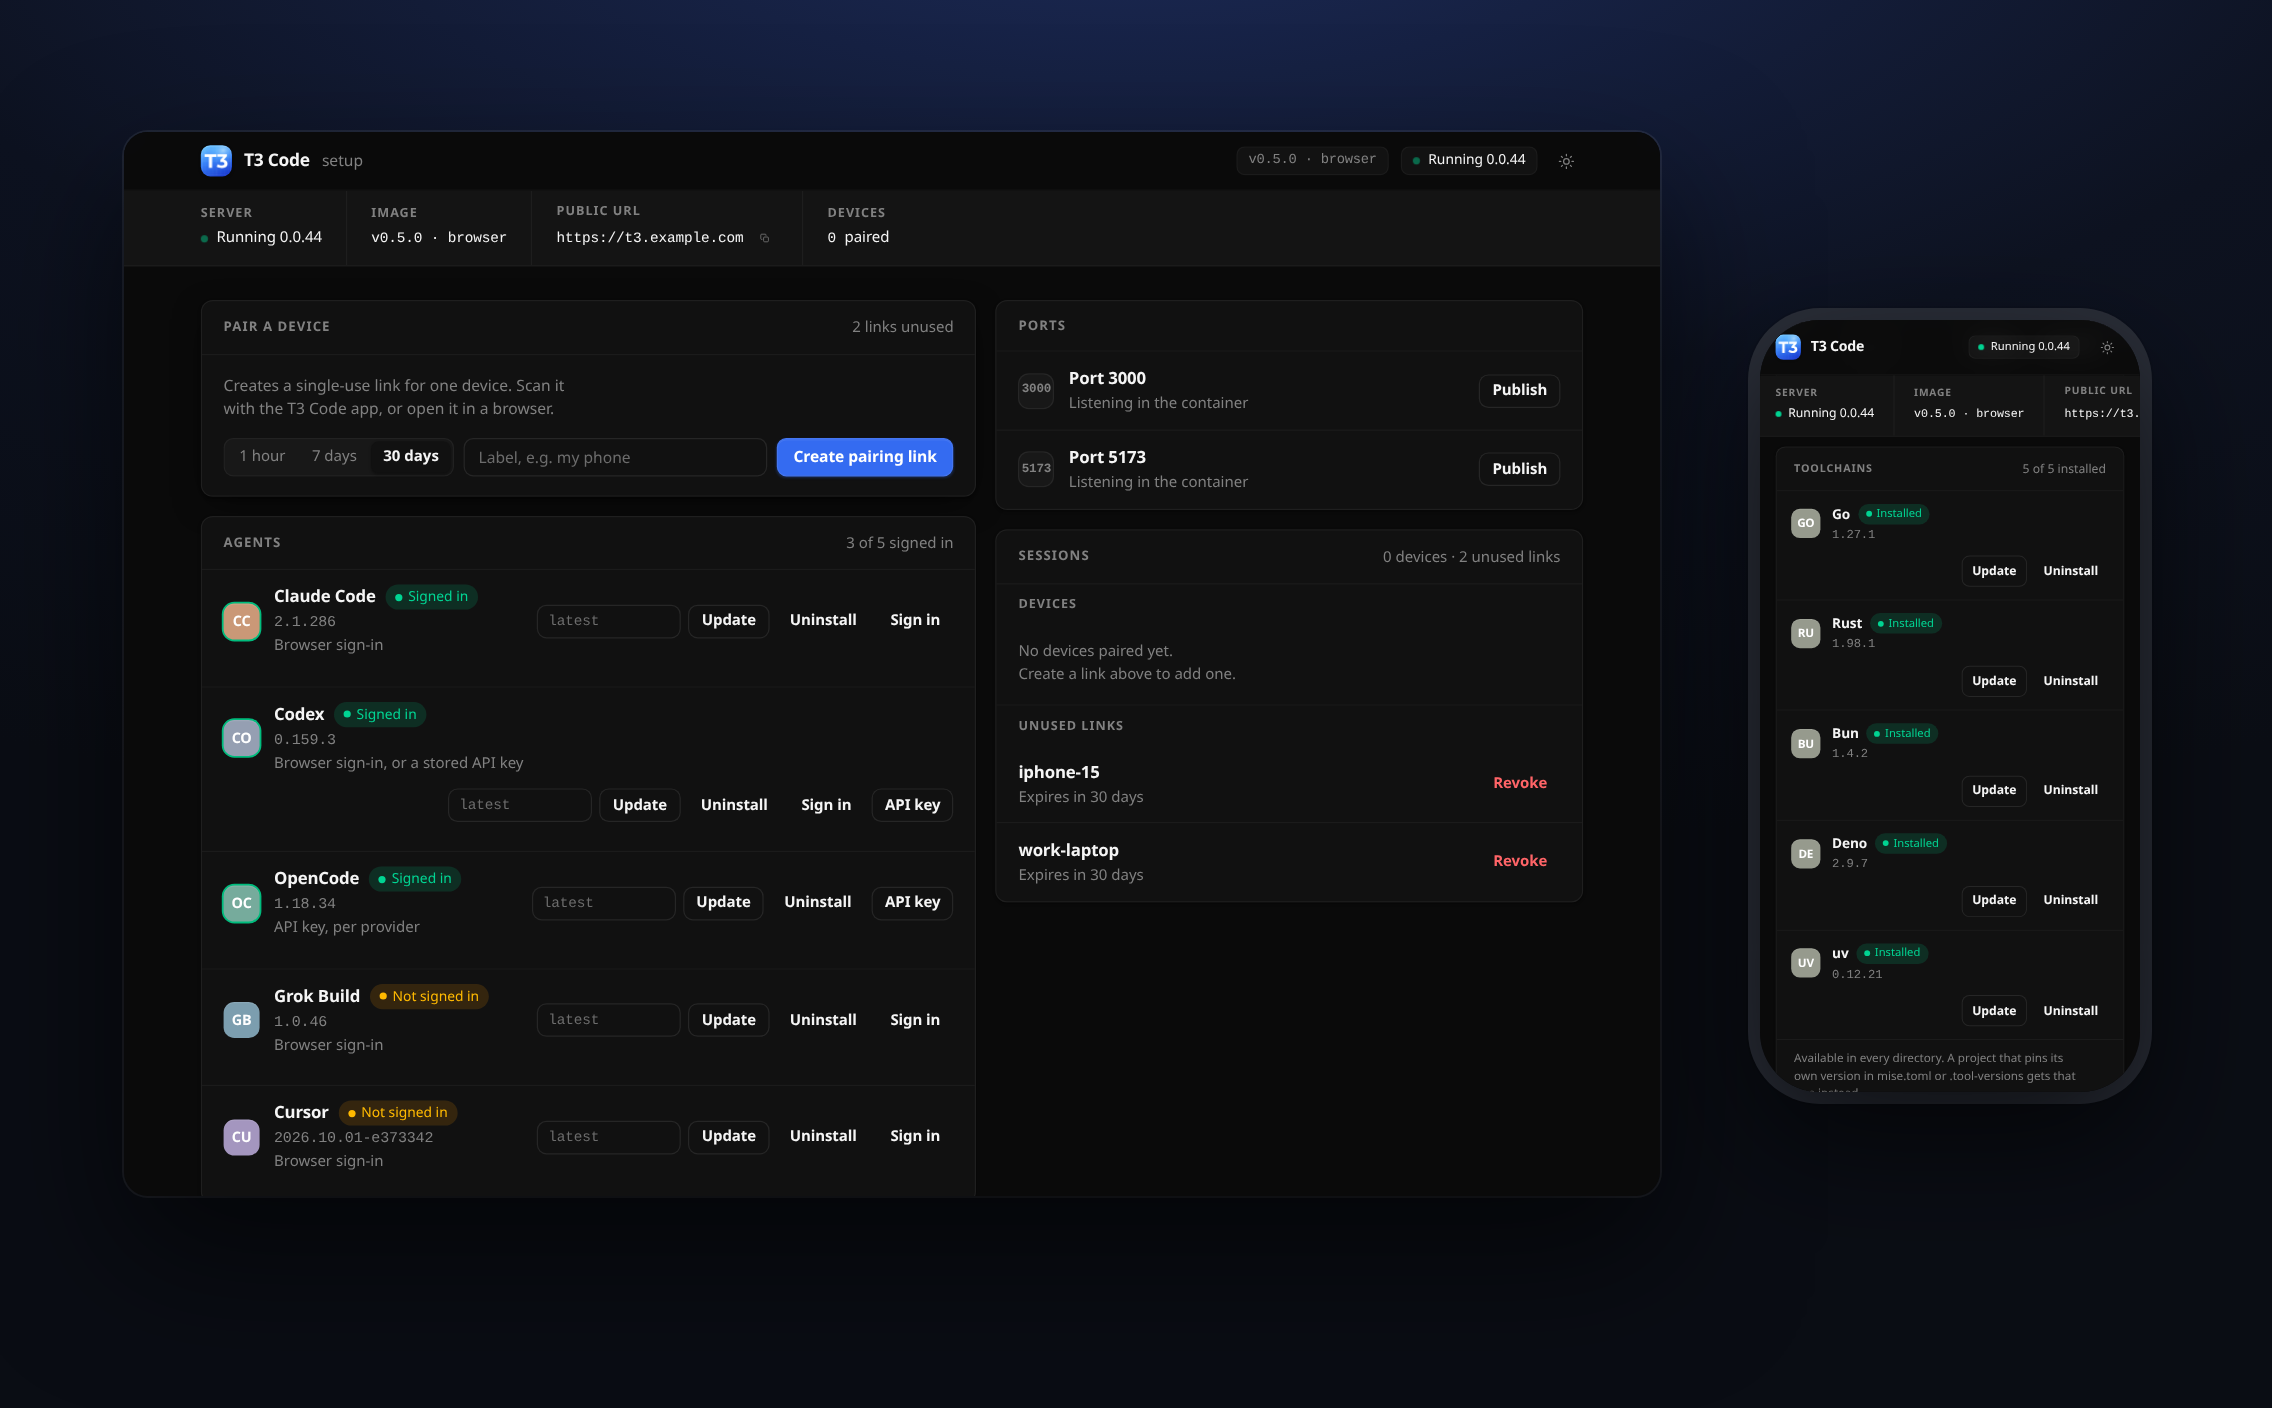
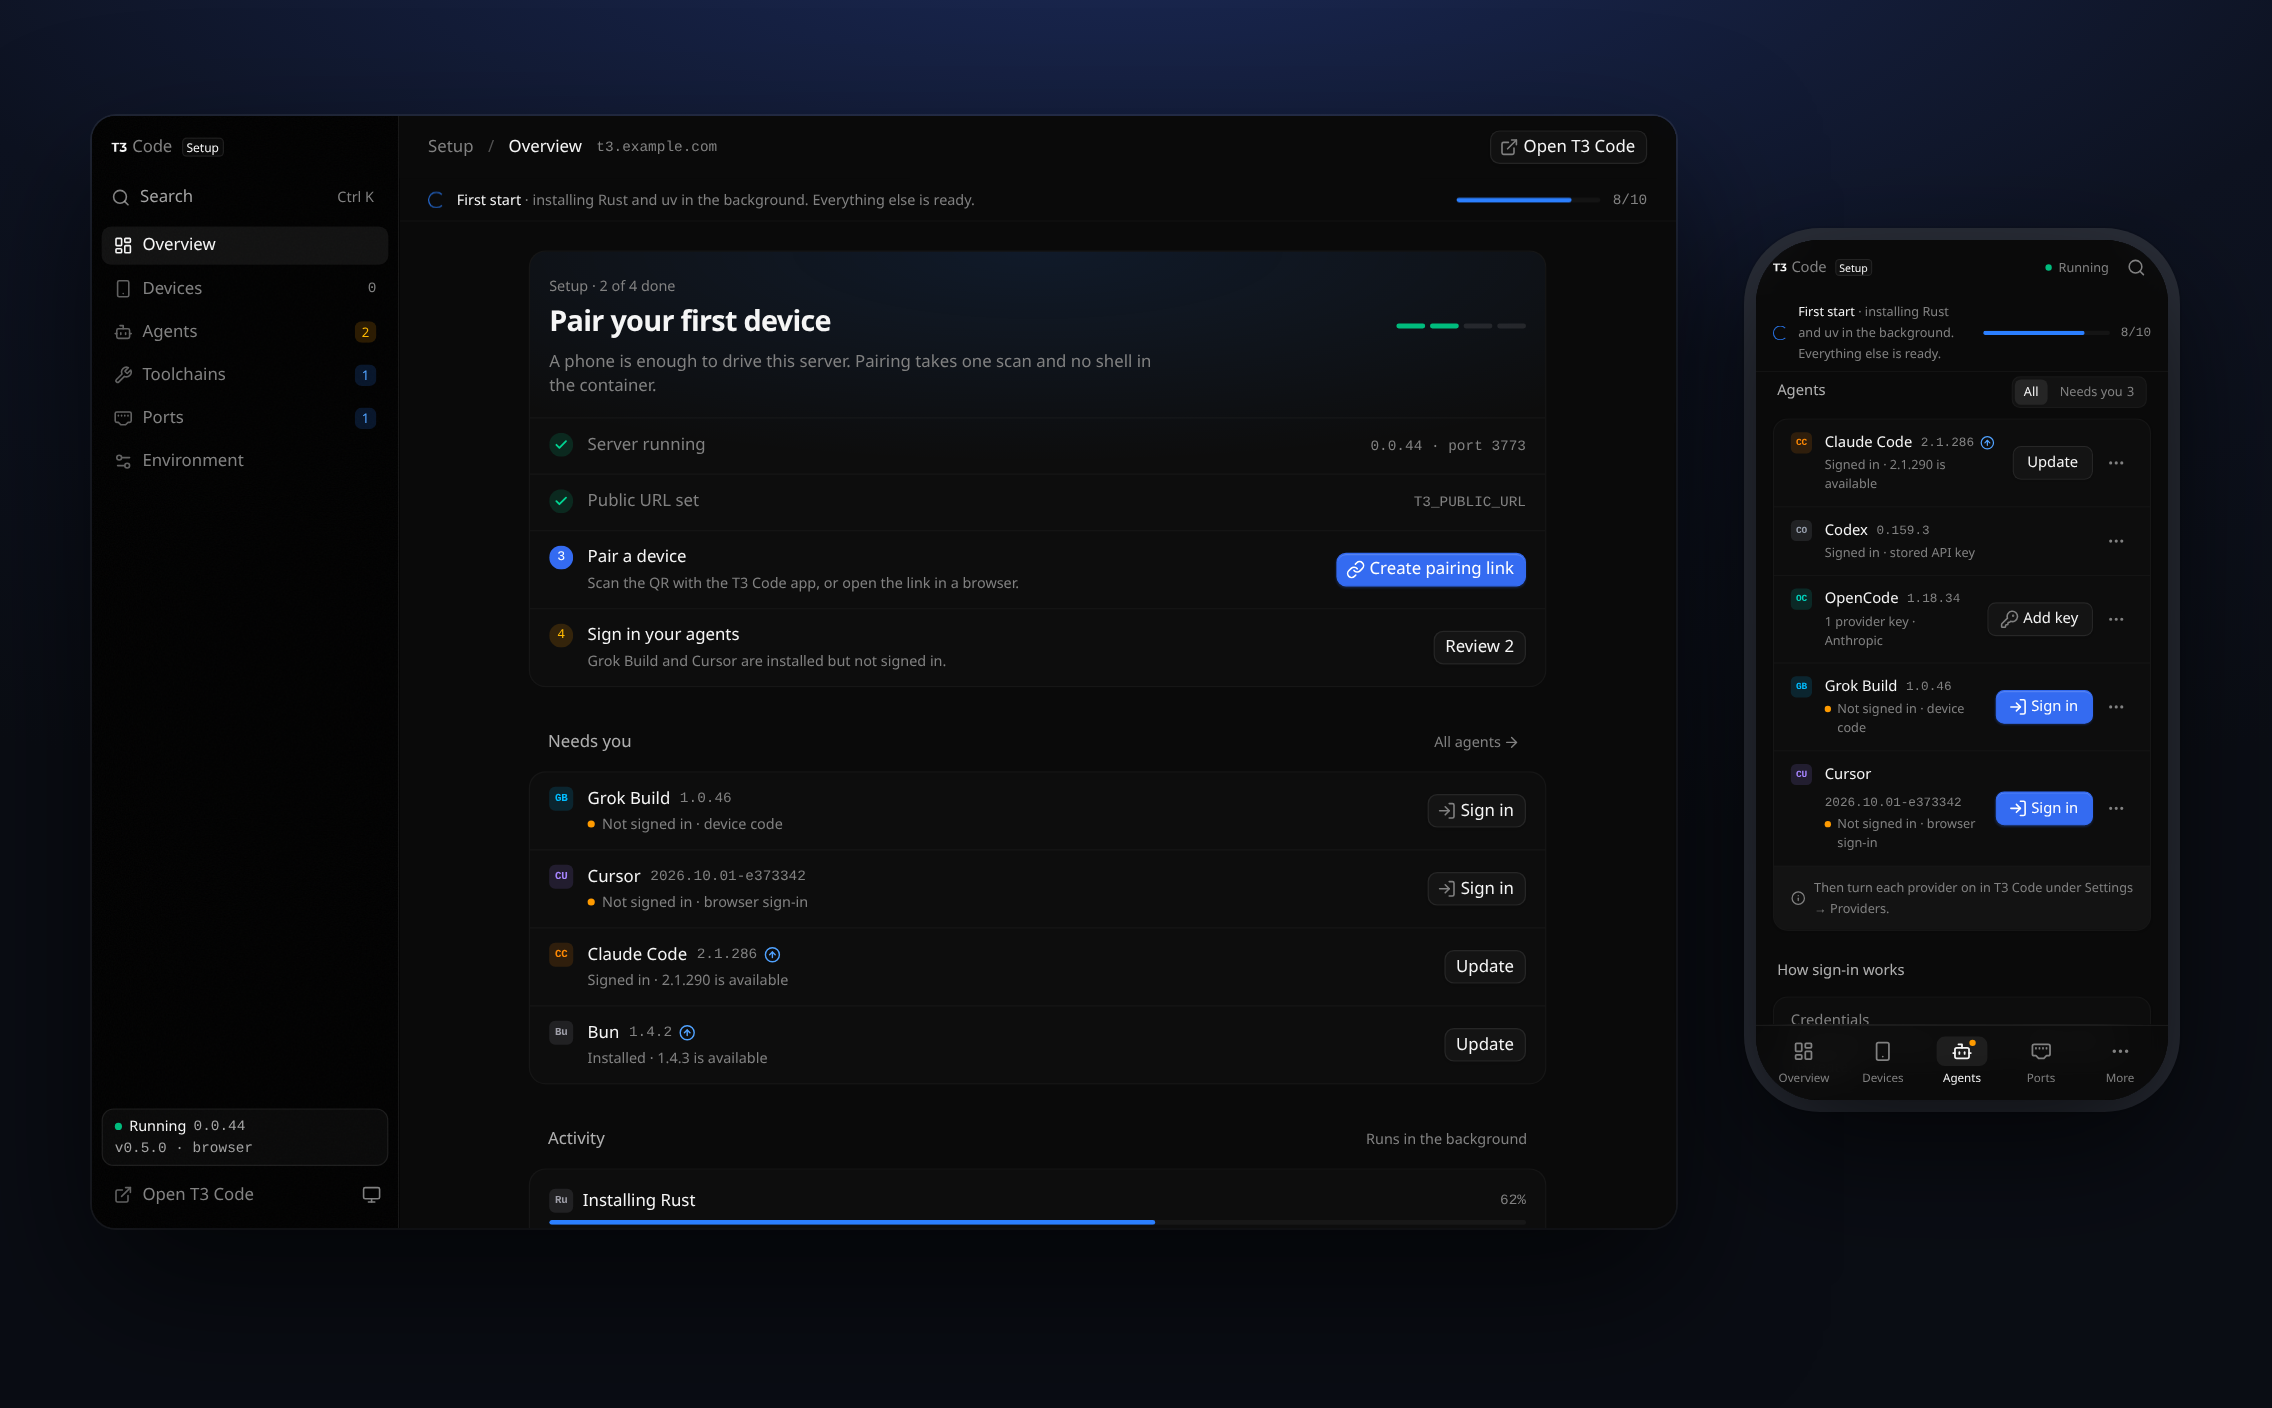
Reshoot the README on the redesigned console

diff --git a/README.md b/README.md
@@ -99,7 +99,7 @@ enter your `T3_SETUP_KEY`, and press **Create pairing link**. Scan the QR with
 the T3 Code app, or open the link in a browser.
 
 From there you are inside T3 Code. Sign each agent in from the setup page's
-**Agents** card, through its own browser flow, then enable the provider under
+**Agents** page, through its own browser flow, then enable the provider under
 **Settings → Providers**.
 
 That is the whole path — no shell in the container at any point. `docker exec`
@@ -151,28 +151,40 @@ T3_PUBLIC_URL=https://t3.example.com
 
 Leave `T3_SETUP_KEY` empty and one is generated at boot and printed to the log;
 setting it yourself keeps it stable when the container is recreated. Then open
-port 3774, enter the key, and press **Create pairing link** — you get a URL and
-a QR code built against your public address, valid for as long as you choose.
-The same panel shows the **pair code** on its own, for clients like the desktop
-app that ask for a server URL and a code as separate fields. The page also
-shows whether the server is healthy, whether `T3_PUBLIC_URL` is set, and which
-agents are signed in.
+port 3774 and enter the key.
 
-Beyond pairing it is a small management surface: connected clients with a
-**Revoke** button each, outstanding unredeemed links with the same, the
-environment status, an **Agents** card that signs your coding agents in (and
-installs, updates or removes them), and a **Toolchains** card that does the same
-for Go, Rust, Bun, Deno and uv. While the first start is still installing, a
-banner at the top says what it is on.
+The console opens on **Overview**, which lists what stands between this
+container and a working phone — the server running, `T3_PUBLIC_URL` set, a
+device paired, the agents signed in — with the next step's button in the list.
+Once all four are done it folds into a single **Ready** line and shows recent
+activity instead. On a desktop the pages are in a sidebar (Overview, Devices,
+Agents, Toolchains, Ports, Environment); on a phone they are a tab bar, and
+every flow fits a 390px screen.
 
-The top bar shows which image is running — `v0.5.0 · browser` — alongside the
-server's health, so a pull can be confirmed from the page instead of guessed at.
-It reads a build stamp baked in at image build time: the release tag in CI, and
-`dev` for a local build.
+On **Devices**, press **Create pairing link** — you get a URL and a QR code
+built against your public address, valid for as long as you choose, and the
+**pair code** on its own for clients like the desktop app that ask for a
+server URL and a code as separate fields. The link is tracked: once the device
+it was made for appears, the page says **Paired with …** with an **Open T3
+Code** button, and says so if the link expires or is revoked first. Paired
+devices and unused links are listed below it, each with **Revoke**.
 
-Creating a link tracks it: once the device it was made for appears, the panel
-flips to **Paired** with an **Open T3 Code** button, and says so if the link
-expires or is revoked before anyone uses it.
+Every row shows one action for its state — **Install**, **Sign in**,
+**Update**, **Retry** — and keeps the rest in its **⋯** menu (a bottom sheet on a
+phone). Uninstalling, revoking and publishing a database port ask first. **⌘K**
+(Ctrl K) opens a palette that reaches every action and page, `G` then a letter
+goes to a page, and `P` on Devices makes a link.
+
+The sidebar's server card shows which image is running — `v0.5.0 · browser` —
+alongside the server's health, so a pull can be confirmed from the page instead
+of guessed at. It reads a build stamp baked in at image build time: the release
+tag in CI, and `dev` for a local build. **Environment** has the rest: the
+public URL, where state and work live and whether those mounts survive a
+recreate, the agent browser, **Copy diagnostics** (the status with anything
+identifying taken out, for an issue), and **Lock** to sign this browser out.
+
+The page is a single self-contained document: no fonts, scripts or styles are
+fetched from anywhere, which matters over a tunnel from a phone.
 
 When the console is reachable at `/__setup` on the same hostname — the routing
 in [Exposing it through one hostname](#exposing-it-through-one-hostname) — T3
@@ -184,13 +196,16 @@ controls live, and renders nothing when the console is not routed there.
 ### Signing agents in, and keeping them current, from the page
 
 The agents are not baked into the image; the first start installs them onto
-the volume. Each row of the **Agents** card shows the exact version installed
-and points T3 Code at that executable, and **Update** and **Uninstall** are
-buttons on the same row: Update moves to the newest release (or one you type),
-and a download carries on in the background with the row showing progress, so
-a slow connection or a tunnel's request timeout does not matter. If an update
-fails, the previous version stays installed and working. Nothing installs or
-updates just because a poll ran. From a shell:
+the volume. Each row on the **Agents** page shows the exact version installed
+and points T3 Code at that executable. When a newer release exists the version
+gets an arrow and the row an **Update** button; **Install a specific
+version…** and **Uninstall…** are in its menu. A download carries on in the
+background with the row showing its progress and a **Cancel** button, so a slow
+connection or a tunnel's request timeout does not matter. Operations run one
+at a time: press Update on three rows, or **Update all**, and they queue. If an
+update fails, the previous version stays installed and working. Nothing
+installs or updates just because a poll ran; the newest releases are looked up
+in the background every few hours. From a shell:
 
 ```bash
 docker compose exec t3code t3-harness list
@@ -216,13 +231,15 @@ by running the CLIs rather than reading about them:
 | Cursor | browser flow, polls to completion | — |
 | Grok Build | device code — URL plus a code to confirm | — |
 
-**Sign in** shows the URL as a link and a QR code, so you can approve it on the
-phone in your hand; where the CLI wants the code pasted back, a field appears
-for it. Nothing is typed into a terminal, and the page never becomes one — it
-runs the CLI and reads what it prints.
+**Sign in** opens a sheet that follows the CLI's own flow as numbered steps:
+open the page (or scan its QR on the phone in your hand), enter the device code
+shown large, or paste the code the browser gives back. It closes by itself once
+the agent reports a session; **Esc** cancels and stops the CLI. Nothing is
+typed into a terminal, and the page never becomes one — it runs the CLI and
+reads what it prints.
 
 <p align="center">
-  <img src="docs/media/agent-signin.png" alt="Signing Claude Code in from the setup page" width="100%">
+  <img src="docs/media/agent-signin.png" alt="Signing Grok Build in with a device code, from the setup page" width="100%">
 </p>
 
 The signed-in badge asks each CLI rather than looking for a credentials file, so
@@ -381,13 +398,14 @@ laptop. Docker's own answer is to publish the port when the container starts,
 which means predicting the port before you know it, and still leaves you
 without TLS or a route in from outside your LAN.
 
-So the setup page has a **Ports** panel. It lists what is listening, including
-servers bound to `127.0.0.1`, which is the usual default and the case that most
-needs help. Press **Publish** and you get a public `https://` URL and a QR code
-to open it on another device:
+So the setup page has a **Ports** page. It lists what is listening and what
+runs it (`vite`, `next-server`), including servers bound to `127.0.0.1`, which
+is the usual default and the case that most needs help. Press **Publish** and
+you get a public `https://` URL and a QR code to open it on another device. A
+port that looks like a database asks first:
 
 <p align="center">
-  <img src="docs/media/ports-panel.png" alt="The Ports panel, listing what is listening in the container" width="100%">
+  <img src="docs/media/ports-panel.png" alt="The Ports page, listing what is listening in the container" width="100%">
 </p>
 
 The same thing from a terminal:
@@ -399,8 +417,8 @@ t3-expose stop 3000   # take it down
 ```
 
 `t3-expose` is a client of the setup server's `/ports` API - the same API the
-panel calls - not a second implementation. Publish from the terminal and the
-panel shows it; press Stop in the panel and the terminal agrees. There is one
+page calls - not a second implementation. Publish from the terminal and the
+page shows it; press Stop on the page and the terminal agrees. There is one
 place tunnels are started, so the two cannot drift apart.
 
 Underneath is a [Cloudflare quick
@@ -472,8 +490,9 @@ environment variables at a compatible endpoint.
 
 Go, Rust (with clippy and rustfmt), Bun, Deno and uv install on the first start
 alongside the agents, through [mise](https://mise.jdx.dev/), into the persistent
-home, and work in every directory. The **Toolchains** card on the setup page
-updates or removes each one, or installs one you left out of `T3_PREINSTALL`.
+home, and work in every directory. The **Toolchains** page in the setup
+console updates or removes each one, or installs one you left out of
+`T3_PREINSTALL`.
 Node and Python come with the image.
 
 Projects can still ask for their own versions: mise reads whatever the project
